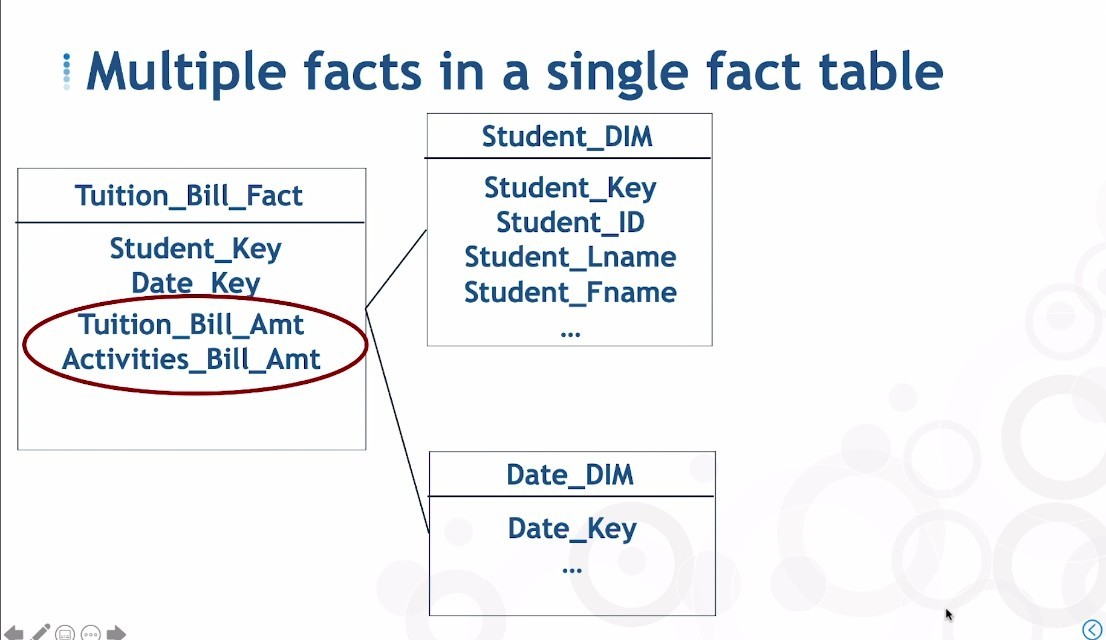
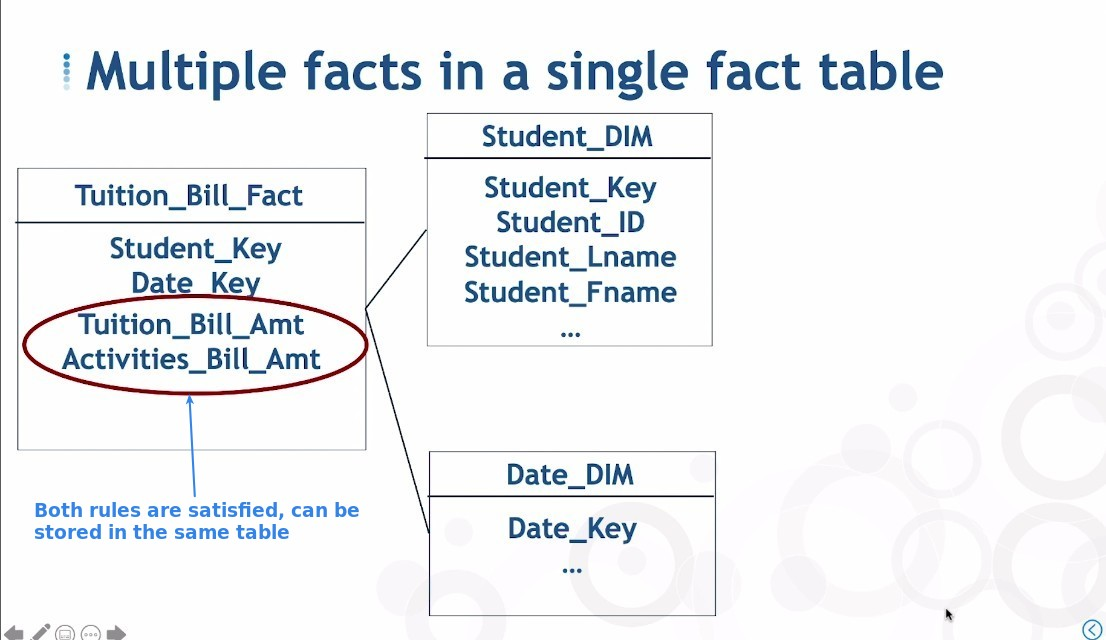
qq

Changed region(s): [[0.0307, 0.7812, 0.3382, 0.8438], [0.1537, 0.625, 0.1844, 0.6562]]

diff --git a/6-design-fact-dimension-table/40-rules-governing-facts-and-trans-fact-table/memo.md b/6-design-fact-dimension-table/40-rules-governing-facts-and-trans-fact-table/memo.md
@@ -1,6 +1,10 @@
 ## **What's the Rules?**
 
+> Continuing from the previous lecture, the rule of putting multiple facts into the same table.
+
 ![Alt what's rules?](pic/01.jpg)
+
+### _Both of the following rules must be met_
 
 ![Alt rule #1](pic/02.jpg)
 
@@ -27,3 +31,5 @@
 ## **Example of different Grain**
 
 ![Alt example of false rule #2](pic/11.jpg)
+
+- The grain size of the two facts must be identical to meet rule #1.
